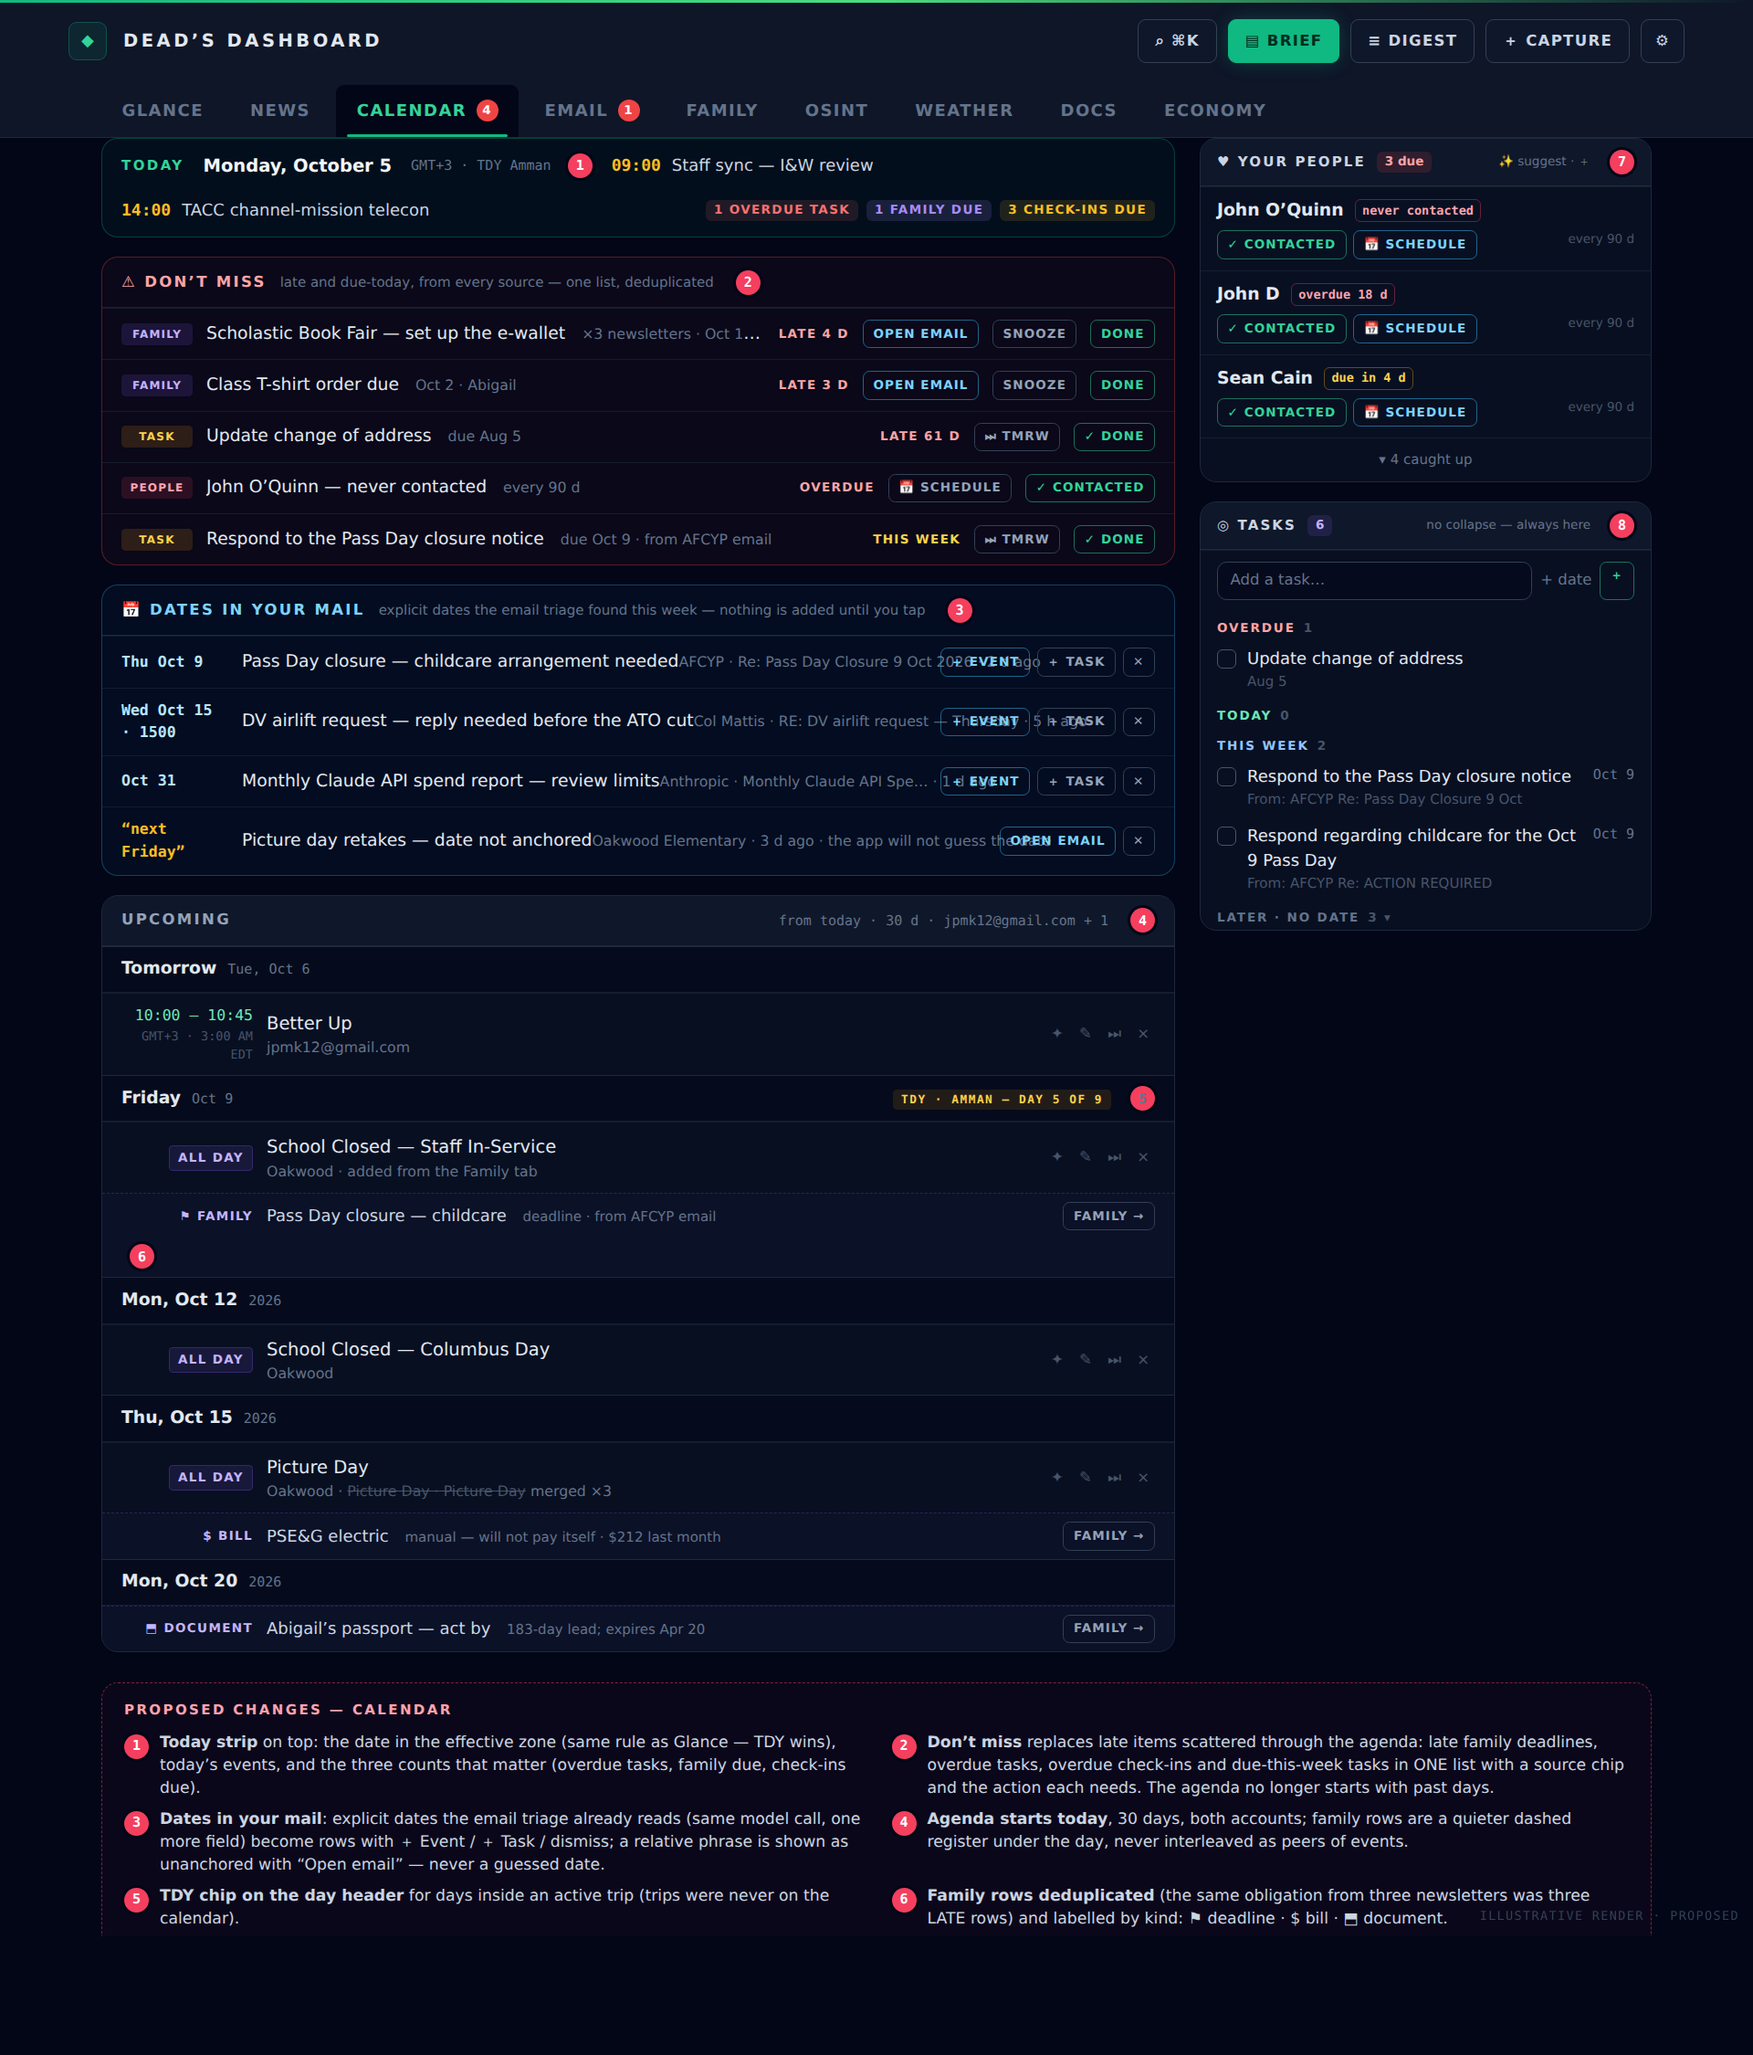
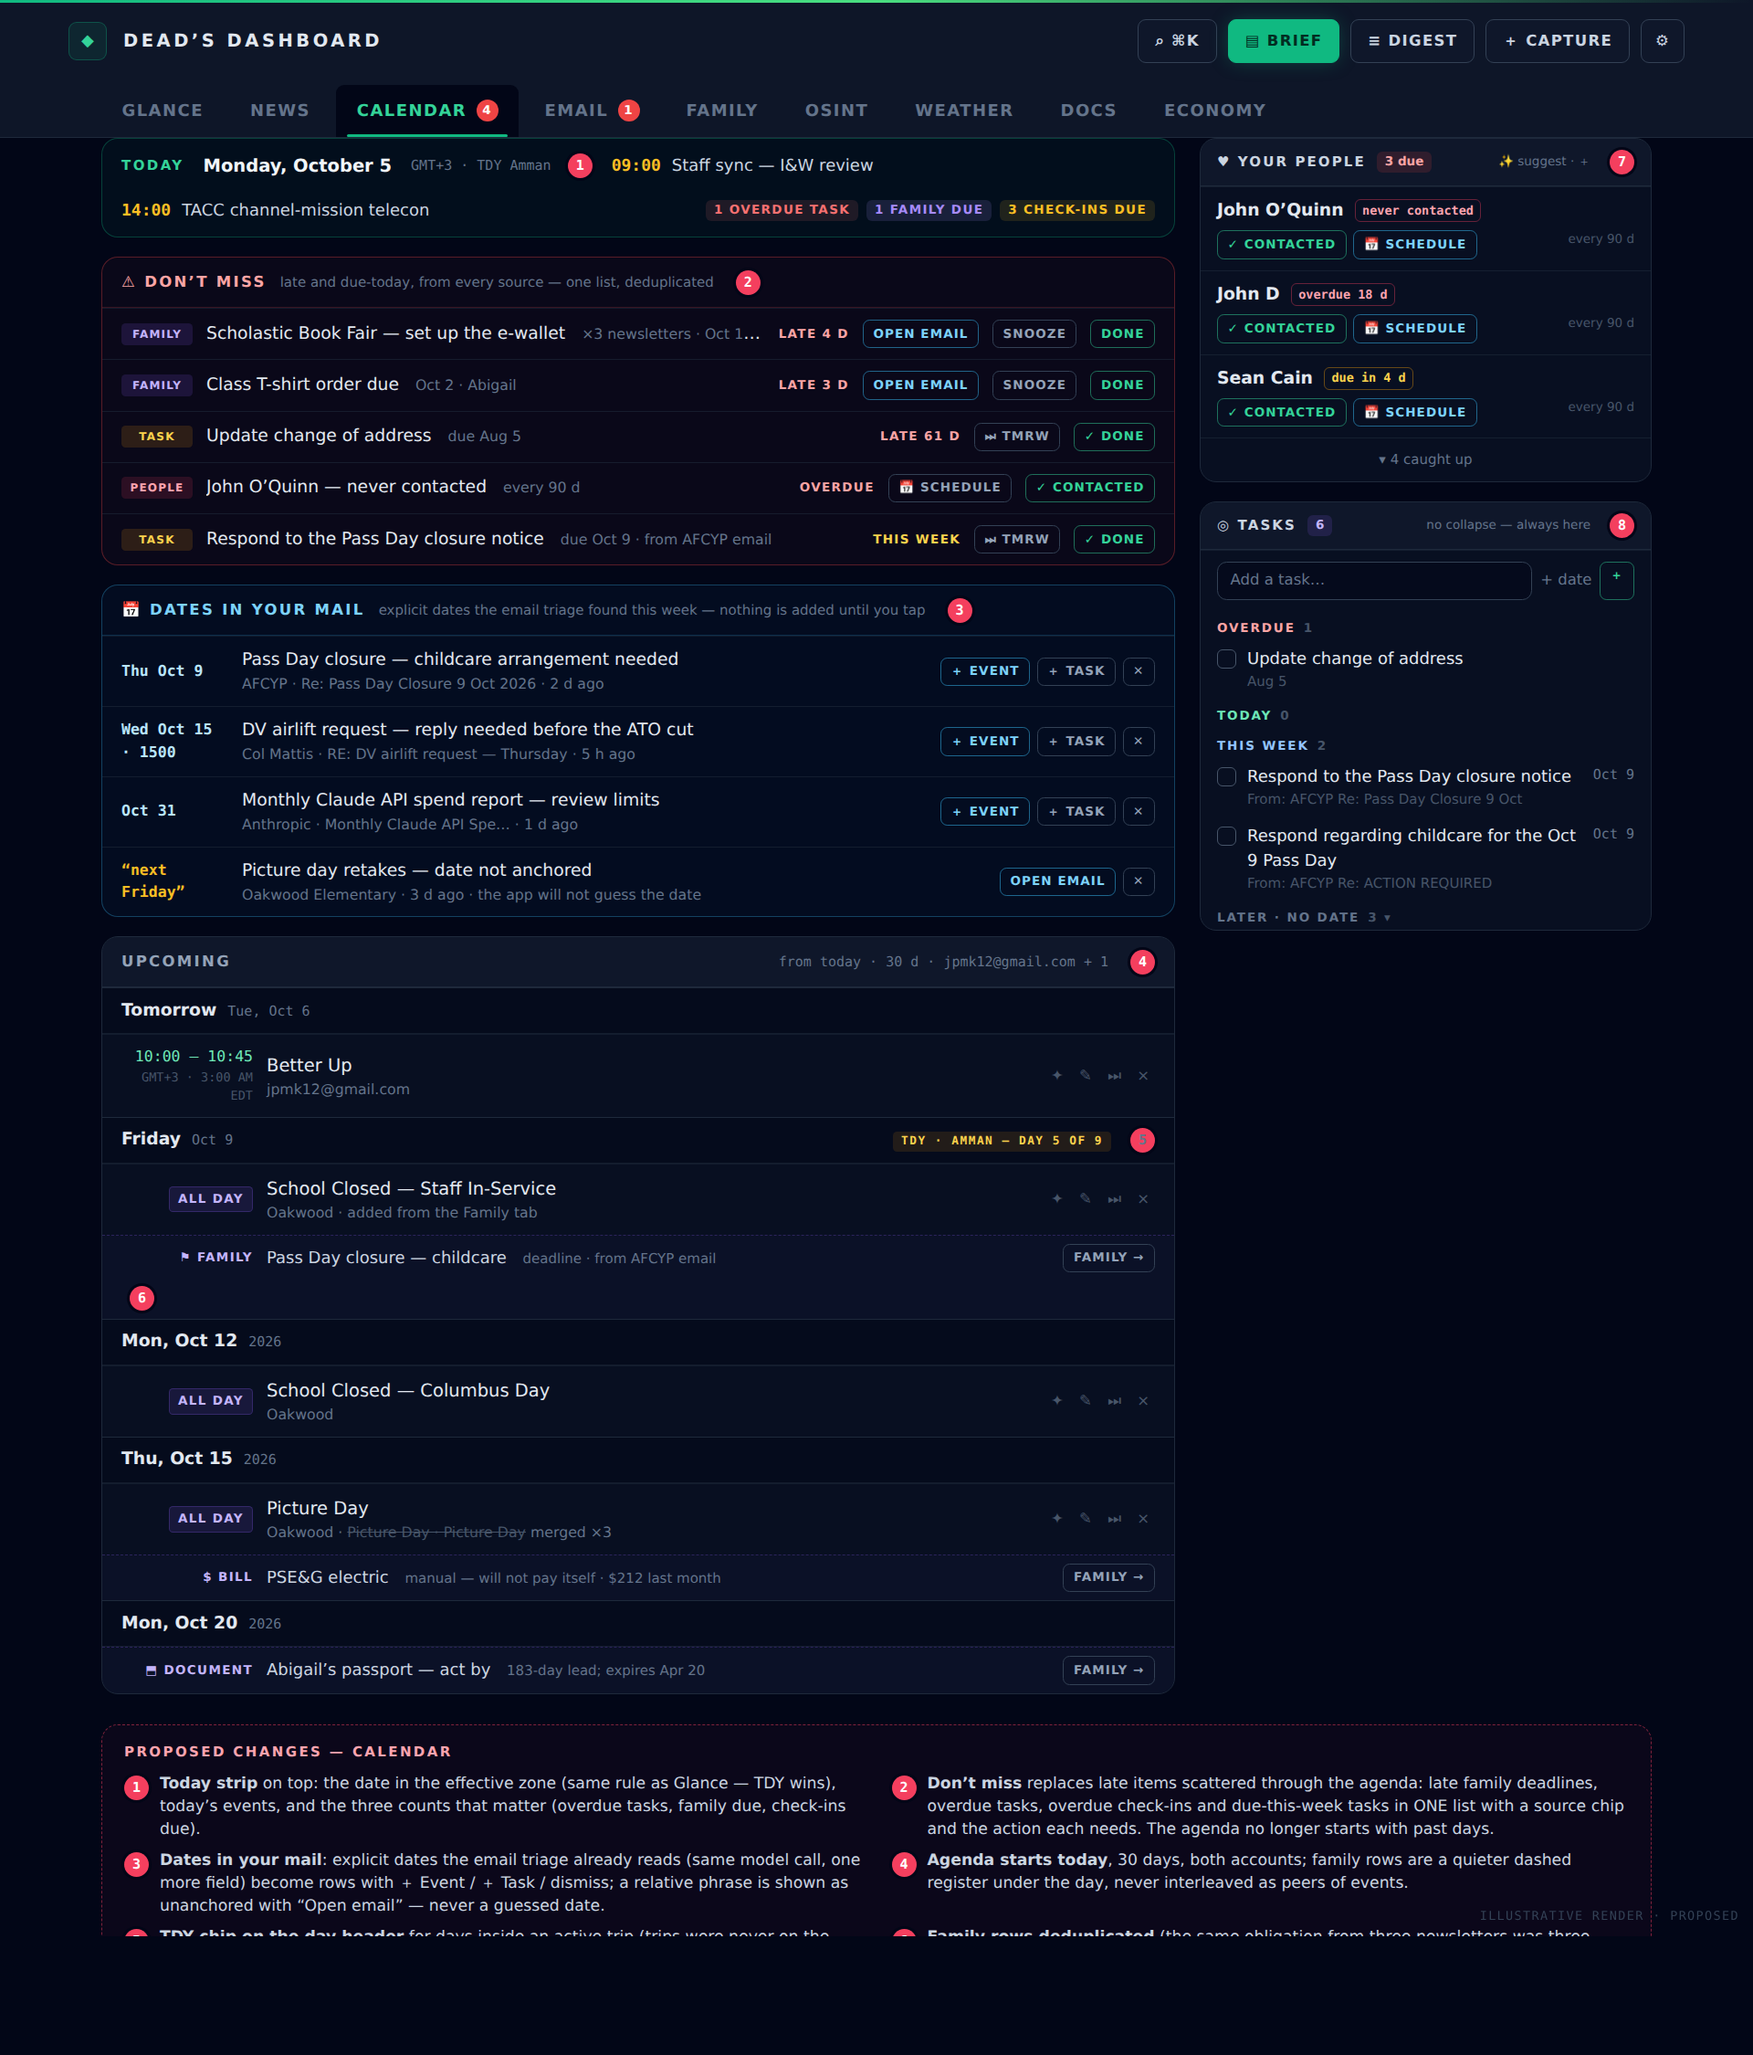
Calendar mockup: stack the title and sender in the Dates-in-your-mail rows
Claude-Session: https://claude.ai/code/session_01F5WtaA5qgNpi4h6tkPdMQF

diff --git a/docs/mockups/calendar-proposed.html b/docs/mockups/calendar-proposed.html
@@ -42,8 +42,8 @@
   .mrow .when{font-family:ui-monospace,Menlo,monospace;font-size:11px;color:#bae6fd;font-weight:700}
   .mrow .when.unk{color:var(--amber)}
   .mrow .what{min-width:0}
-  .mrow .what .t{color:#e2e8f0;white-space:nowrap;overflow:hidden;text-overflow:ellipsis}
-  .mrow .what .f{font-size:10.5px;color:var(--mut);white-space:nowrap;overflow:hidden;text-overflow:ellipsis}
+  .mrow .what .t{display:block;color:#e2e8f0;white-space:nowrap;overflow:hidden;text-overflow:ellipsis}
+  .mrow .what .f{display:block;font-size:10.5px;color:var(--mut);white-space:nowrap;overflow:hidden;text-overflow:ellipsis}
   .mrow .acts{display:flex;gap:5px}
   /* agenda */
   .ag{border:1px solid var(--bd);border-radius:12px;background:rgba(15,23,42,.55);overflow:hidden}
